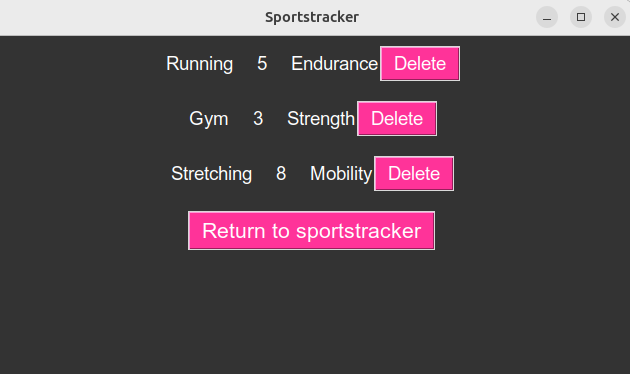
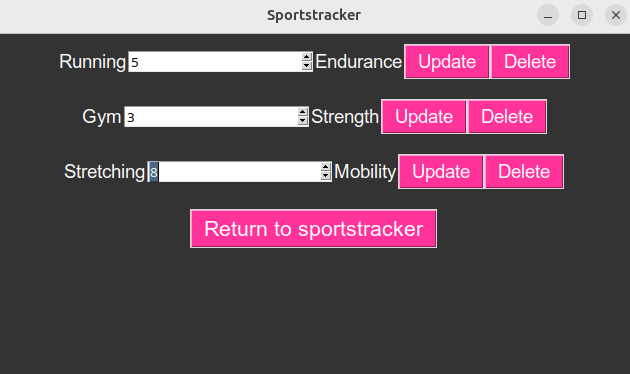
Modified app instructions documentation

diff --git a/dokumentaatio/kayttoohje.md b/dokumentaatio/kayttoohje.md
@@ -52,9 +52,11 @@ Siirryttyäsi NewActivities näkymään Sportstracker näkymästä painamalla "N
 
 Pääset takaisin tarkastelemaan liikuntasuorituksiasi painamalla "Return to sportstracker"-nappia.
 
-## Liikuntasuorituksen poistaminen
+## Liikuntasuoritusten poistaminen ja liikuntakertojen muuttaminen
 
-Siirryttyäsi EditActivities näkymään Sportstracker näkymästä painamalla "Edit activities"-nappia, pysty poistamaan liikuntasuorituksia painamalla kyseisen suorituksen kohdalta "Delete"-nappia.
+Siirryttyäsi EditActivities näkymään Sportstracker näkymästä painamalla "Edit activities"-nappia, pystyt poistamaan liikuntasuorituksia painamalla kyseisen suorituksen kohdalta "Delete"-nappia.
+
+Samassa näkymässä voit päivittää liikuntakertojen määrää täyttämällä oikean numeron annettuun kenttään ja painamalla "Update"-nappia.
 
 ![](Kuvat/EditActivities.png)
 
